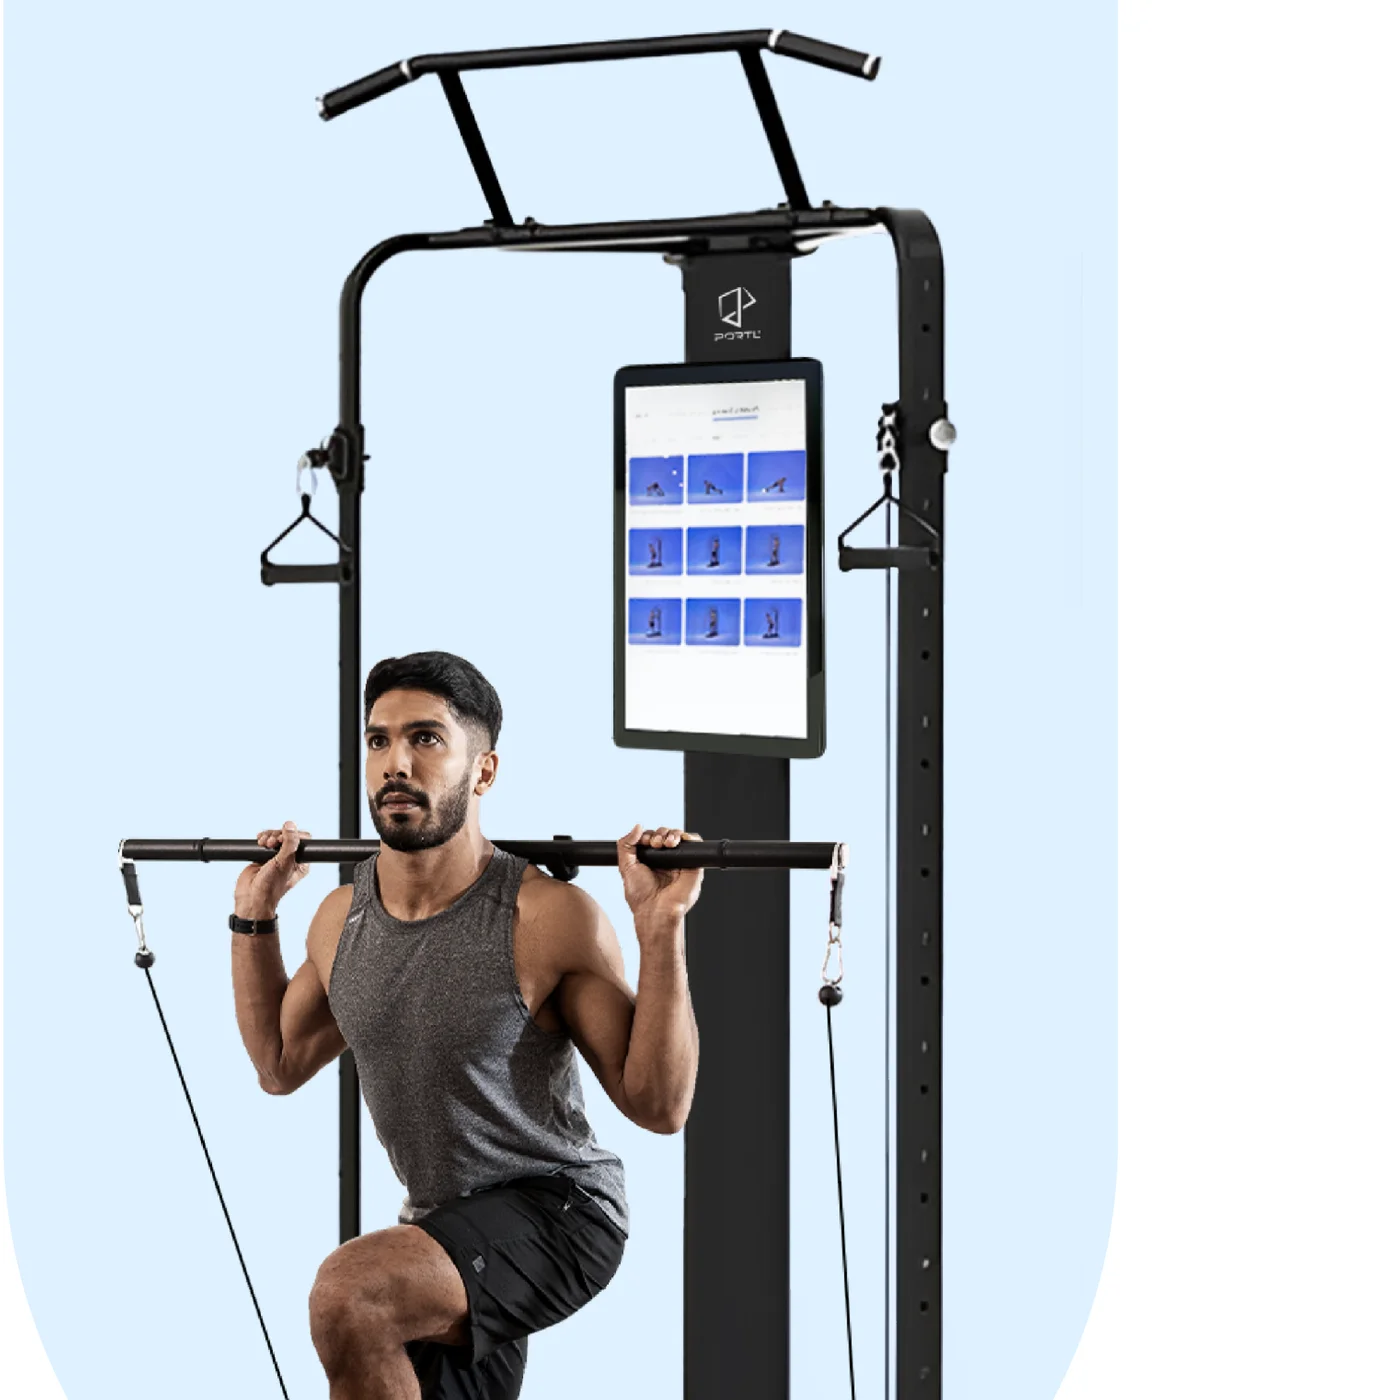
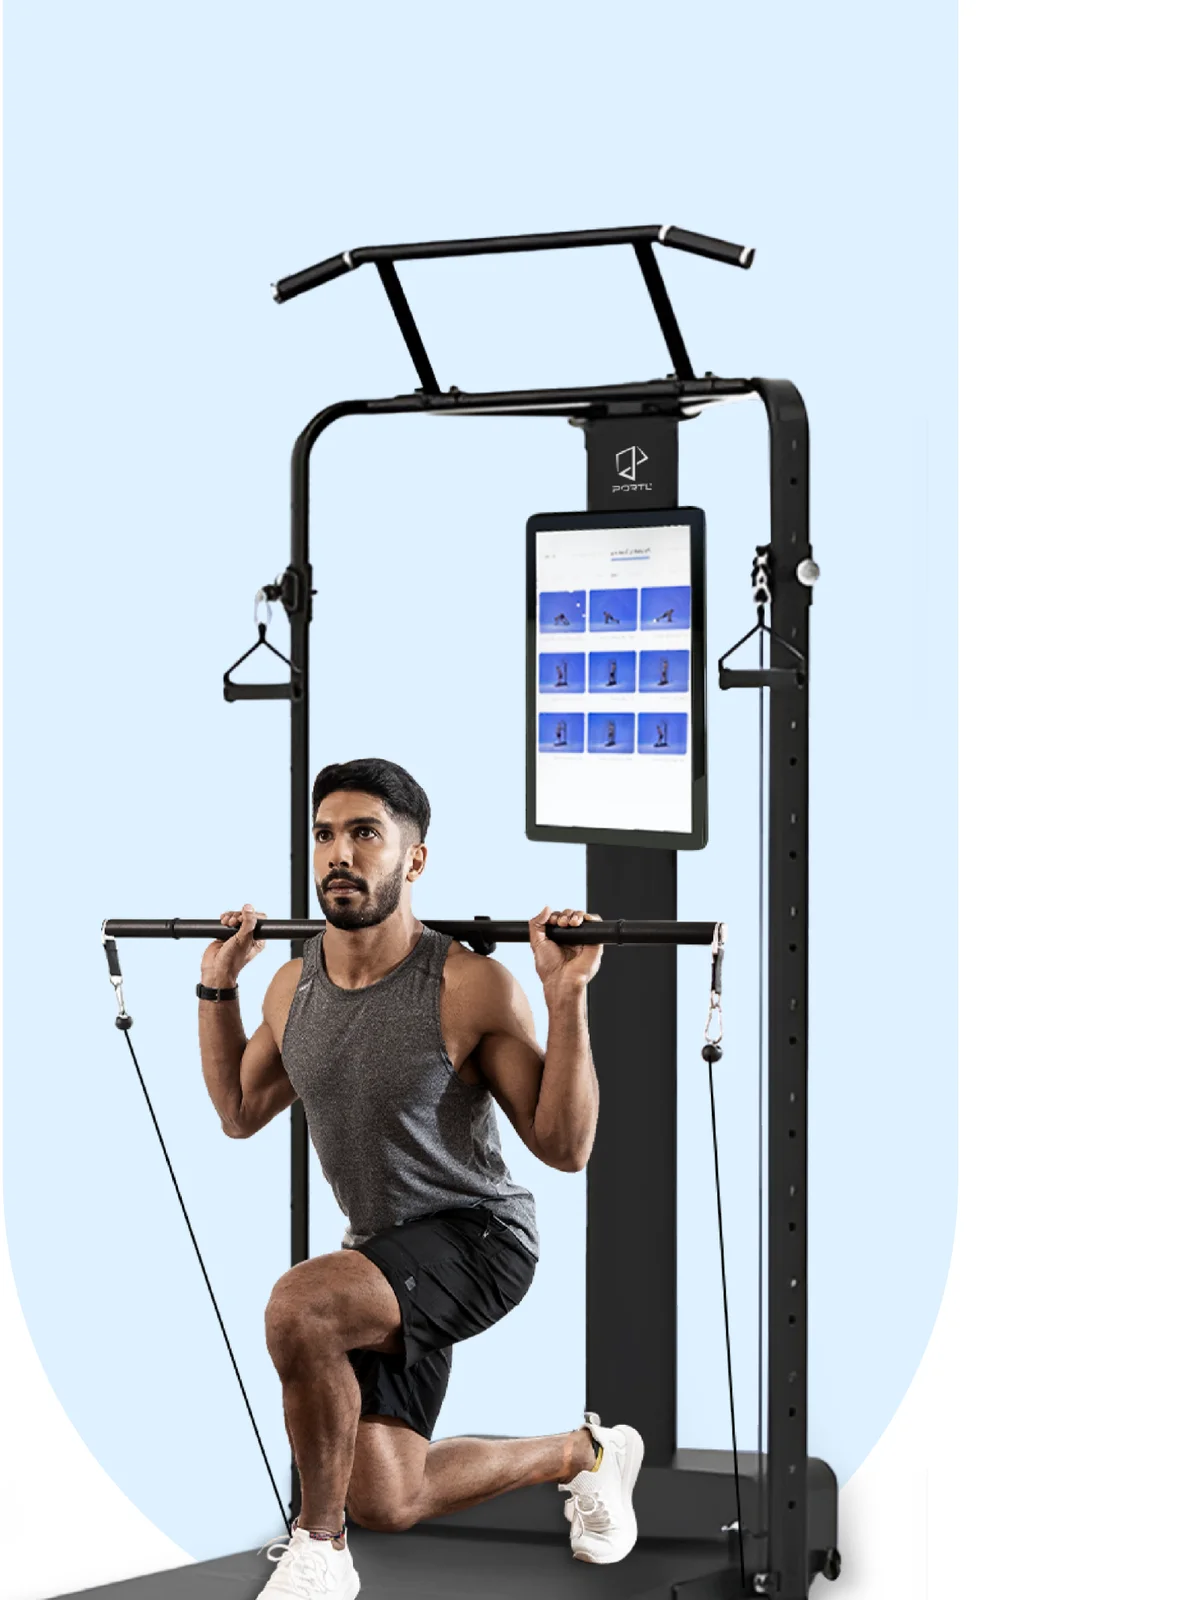
Per-card cover aspect ratios, trim intro line, rewrite taglines
- Cover images no longer forced into a shared square: added
  coverAspect to CaseStudyProject (3:4 portrait for Ultragym Pro,
  5:4 landscape for the UX Study) and re-cropped both source images
  to fit their own ratio cleanly, removing the leftover white padding
  the square crops had.
- Shortened the Selected Work intro to "Two deep case studies where I
  owned the process end to end." (dropped the "plus a few more
  selected projects..." clause).
- Replaced both case-study taglines with the provided copy.

Changed region(s): [[0.0, 0.0, 0.8017, 1.0], [0.185, 0.3071, 0.2775, 0.4607], [0.6475, 0.6757, 0.6783, 0.7064]]

diff --git a/src/data/projects.ts b/src/data/projects.ts
@@ -5,6 +5,8 @@ export interface CaseStudyProject {
   tagline: string
   summary: string
   cover: string
+  /** CSS aspect-ratio for the cover image, tuned per image so it crops cleanly */
+  coverAspect: string
   tags: string[]
   highlights: string[]
   /** optional external "App Link" shown next to the title on the selected-work card */
@@ -26,10 +28,12 @@ export const caseStudies: CaseStudyProject[] = [
     type: 'case-study',
     slug: 'ultragym-pro',
     title: 'UltraGym Pro',
-    tagline: 'On-device touchscreen for a 120kg commercial strength machine',
+    tagline:
+      'A commercial smart-gym experience designed for gyms, hotels, and workplaces, combining digital resistance training with a connected touchscreen experience.',
     summary:
       "Designing a 21.5-inch vertical interface for a user who's standing, moving, pulling and exerting force — not sitting calmly a foot from a laptop.",
     cover: '/case-studies/ultragym-pro/cover.webp',
+    coverAspect: '3 / 4',
     tags: ['Hardware UI', 'UX Research', '0→1'],
     highlights: ['End to End', 'Ownership'],
   },
@@ -37,10 +41,12 @@ export const caseStudies: CaseStudyProject[] = [
     type: 'case-study',
     slug: 'ultragym-ux-study',
     title: 'Ultragym UX Study',
-    tagline: 'Removing friction from the UltraGym companion app',
+    tagline:
+      'A connected home-gym experience that brings guided workouts, personalised training, and real-time progress tracking into one companion app.',
     summary:
       'UltraGym combines smart fitness hardware with a companion app. My goal was to remove the friction that stood between users and their workout.',
     cover: '/case-studies/ultragym-ux/cover.webp',
+    coverAspect: '5 / 4',
     tags: ['Product Design', 'System Thinking', 'Mobile'],
     highlights: ['Redesign', 'Customer Experience Design'],
     appLink: 'https://play.google.com/store/apps/details?id=com.portl.fitness&pcampaignid=web_share',

diff --git a/src/components/ProjectCards.tsx b/src/components/ProjectCards.tsx
@@ -13,7 +13,10 @@ export function CaseStudyCard({ project, index }: { project: CaseStudyProject; i
       transition={{ duration: 0.7, delay: index * 0.08, ease: [0.16, 1, 0.3, 1] }}
     >
       <Link to={`/work/${project.slug}`} className="group block">
-        <div className="relative aspect-square overflow-hidden rounded-2xl border border-border transition-colors group-hover:border-border-strong">
+        <div
+          className="relative overflow-hidden rounded-2xl border border-border transition-colors group-hover:border-border-strong"
+          style={{ aspectRatio: project.coverAspect }}
+        >
           <img
             src={project.cover}
             alt={project.title}

diff --git a/src/components/SelectedWork.tsx b/src/components/SelectedWork.tsx
@@ -20,8 +20,7 @@ export function SelectedWork() {
       </motion.div>
 
       <p className="mt-6 max-w-2xl text-text-muted">
-        Two deep case studies where I owned the process end to end, plus a few more
-        selected projects — from ridesharing to ecommerce.
+        Two deep case studies where I owned the process end to end.
       </p>
 
       <div className="mt-8 grid gap-6 sm:grid-cols-2">
